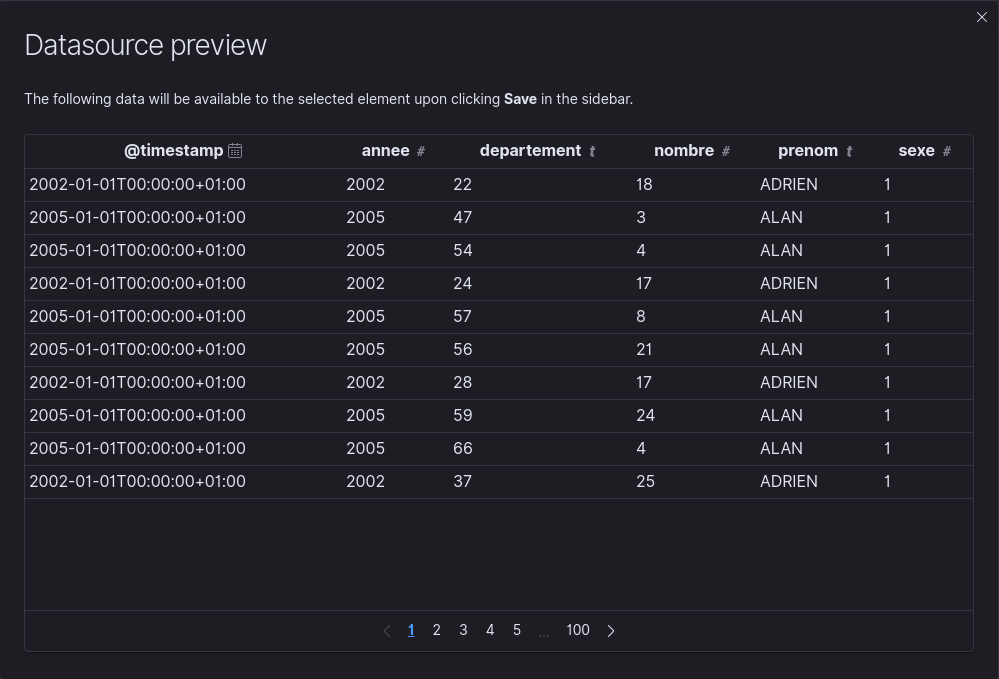
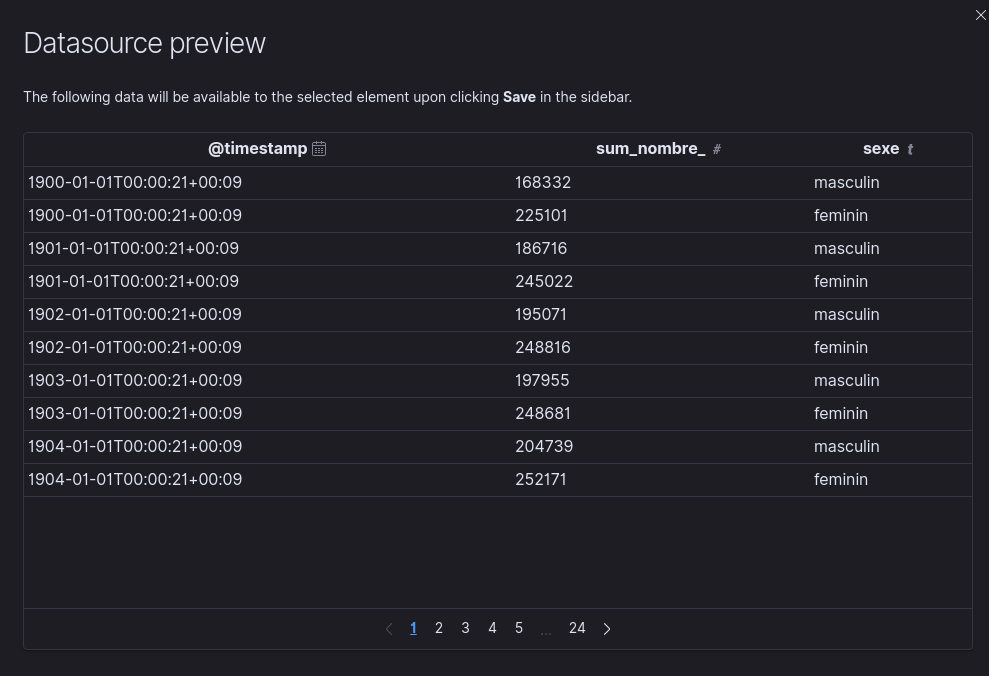
Somme littles improvements for tp 7

diff --git a/tps/tp-7.md b/tps/tp-7.md
@@ -66,11 +66,11 @@ Ensuite, sélectionner l'**Elasticsearch SQL**
 
 ![canvas default datasource](images/pannel_canvas_source.png)
 
-Dans cette partie, c'est là que nous allons **définir la requête SQL**. Pour la tester à tout moment, nous pouvons cliquer sur **Preview data**, dont un exemple de résultat est afficher ci-dessous, et si le résultat semble correct, nous allons pouvoir sauvegarder
+Dans cette partie, c'est là que nous allons **définir la requête SQL**. Dans cet exemple, nous allons utiliser la **requête 6**, appelé **"Nombre de naissance par sexe"**, présent dans la suite du TP. Pour la tester à tout moment, nous pouvons cliquer sur **Preview data**, dont un exemple de résultat est afficher ci-dessous, et si le résultat semble correct, nous allons pouvoir sauvegarder
 
 ![canvas default datasource](images/pannel_canvas_query.png)
 
-Lorsque nous affichons la **preview**, le résultat (les données utilisables dans notre visualisation) sera affiché dans une table! Comme pour du SQL classique, plus nous récupérons de données, plus la query sera longue, il faut donc faire des requêtes optimisées au possible, afin de récupérer le moins de données que possible!
+Lorsque nous affichons la **preview**, le résultat (les données utilisables dans notre visualisation) sera affiché dans une table! Comme pour du SQL classique, plus nous récupérons de données, plus l'execution de la requête sera longue, il faut donc faire des requêtes optimisées au possible, afin de récupérer le moins de données que possible!
 
 ![canvas default datasource](images/pannel_canvas_ds_preview.png)
 
@@ -78,11 +78,28 @@ Une fois sauvegardé, dans la partie **Display**, nous avons accès aux options 
 
 > La principale différence est que le **split** de Lens est ici appelé **Color**
 
+Dans cet exemple:
+    - l'**axe X** représente le **temps**
+    - l'**axe Y** représente la moyenne (de la somme) des prénoms données = **total des naissances**
+    - la **couleur** représente le **sexe** : féminin ou masculin
+
 ![canvas default datasource](images/canvas_display_options.png)
 
-La **documentation** de **Canvas** est présente à la page [suivante](https://www.elastic.co/guide/en/kibana/current/canvas.html)
+Ce qui vas nous donner le résultat suivant, sur la feuille de travail:
 
-### 2.1 Créations d'une dashboard sur les prénoms en France
+![canvas default datasource](images/pannel_canvas_simple_result.png)
+
+Il existe d'autres types de visualisations, mais de manière général la **documentation** de **Canvas** est présente à la page [suivante](https://www.elastic.co/guide/en/kibana/current/canvas.html)
+
+### 2.1 Remarques
+
+Dans Canvas, à l'heure actuel, des **regressions** ont été commises, et il y a plusieurs **bugs**, potentiellement très **problématiques**:
+
+- Par défaut, les Canvas sont **sauvegardé automatiquement**
+- Si **plusieurs personnes édite un même Canvas** en même temps, certains éléments risquent de ne **pas être sauvegardés**
+- Quelquefois, même s'il n'y a pas d'erreurs sur une visualisation, **rien de s'affiche**. Dans ce cas là, il suffit (généralement) de **quitter la page Canvas, et revenir dessus**
+
+### 2.2 Créations d'une dashboard sur les prénoms en France
 
 En nous servans du jeu de donnée du TP précédant (avec l'index pattern `prenoms-france`), nous allons créer un canvas représentant au minimum les éléments suivants:
 
@@ -100,7 +117,7 @@ En termes de visualisations:
 
 > Toutes les **requêtes SQL** sont faites et présentes dans la partie suivante!
 
-### 2.2 Requêtes SQL à utiliser
+### 2.3 Requêtes SQL à utiliser
 
 **1) Total de naissances de garçons**
 
